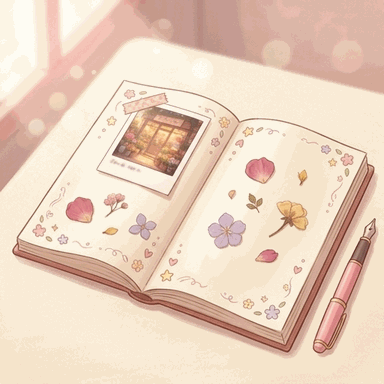
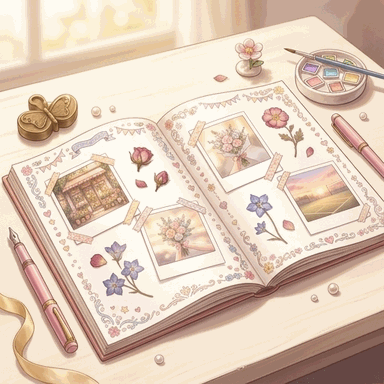
feat(affinity-cards): 加 6 级解锁门槛 + R/SR/SSR 美术分档拉开档次
【等级门槛】
- AffinityCardConfig.CARD_SYSTEM_UNLOCK_LEVEL = 6（新手前 5 级专注核心循环，
  避免开包动画拉跑注意力，同时让第一张 SSR 印象更有仪式感）
- AffinityManager.onCustomerDelivered 内部判等级：未达 6 级则继续走 +1/+2
  兼容路径，Bond 仍能正常推进，只是不掉卡 / 不积累友谊点
- AffinityManager.isCardSystemUnlocked() 给 UI 入口统一判定显隐
- TopBar「图鉴」按钮 6 级前 visible=false + eventMode=none，监听 level:up
  在解锁瞬间淡入显示
- CustomerProfilePanel 卡册行同样在解锁前折叠，面板高度回 380（不浪费空间）

【美术分档】重做 R(3)/SR(2)/SSR(1) 共 6 张 prompt 与生图，明显拉开档次：
- N 保持简洁日常小品（不动）
- R：丰富道具 + 多层背景细节 + 柔光氛围（可见明显高于 N）
- SR：戏剧 cinematic 光影 + 复杂层次背景 + 暖光晕 + 装饰繁复
- SSR：半 3D 体积感笔触 + 厚涂质感 + god-rays + 金色粒子 + 半透明 subsurface
  皮肤光感（明显高于 SR，作为 S1 hero key art）
- 12 张卡面统一 P 模式 256 色压缩到 384px，平均 70KB/张

Made-with: Cursor

diff --git a/src/managers/AffinityManager.ts b/src/managers/AffinityManager.ts
@@ -41,7 +41,9 @@ import {
   type BondLevel,
 } from '@/config/AffinityConfig';
 import { isAffinityCardSystemEnabled } from '@/config/AffinityFeatureFlags';
+import { CARD_SYSTEM_UNLOCK_LEVEL } from '@/config/AffinityCardConfig';
 import { AffinityCardManager } from './AffinityCardManager';
+import { LevelManager } from './LevelManager';
 
 const AFFINITY_STORAGE_KEY = 'huahua_affinity';
 
@@ -77,6 +79,16 @@ class AffinityManagerClass {
     this._loadState();
     this._ensureEntriesForCurrentLevel();
     this._bindEvents();
+  }
+
+  /**
+   * 友谊卡 + 图鉴系统对当前玩家是否「真正可用」。
+   * - flag 必须开启
+   * - 玩家等级达到 CARD_SYSTEM_UNLOCK_LEVEL（默认 6）
+   * UI 入口（TopBar 图鉴按钮、CustomerProfilePanel 卡册行）用本方法判定显隐。
+   */
+  isCardSystemUnlocked(): boolean {
+    return isAffinityCardSystemEnabled() && LevelManager.level >= CARD_SYSTEM_UNLOCK_LEVEL;
   }
 
   /** 当前累计点 → 落在哪个 bond 等级（按 BOND_THRESHOLDS） */
@@ -172,9 +184,13 @@ class AffinityManagerClass {
     //   - 正常订单：base 35% 概率掉一张卡 → 该卡稀有度对应 1/3/8/25 点
     //   - 专属订单：85% 必出，且稀有度 +1 档；30% 概率第二张
     //   - 重复卡 → 友谊点（碎片），不直接给 Bond
-    // 卡片系统未启用：沿用 +1/+2 兼容路径
+    // 卡片系统未启用 / 玩家等级未达 CARD_SYSTEM_UNLOCK_LEVEL：沿用 +1/+2 兼容路径
+    //  - 等级门槛见 AffinityCardConfig.CARD_SYSTEM_UNLOCK_LEVEL（默认 6）
+    //  - 6 级前 Bond 仍能正常推进，只是不掉卡 / 不积累友谊点，避免新手期分心
     let gain: number;
-    if (isAffinityCardSystemEnabled()) {
+    const cardSystemActive =
+      isAffinityCardSystemEnabled() && LevelManager.level >= CARD_SYSTEM_UNLOCK_LEVEL;
+    if (cardSystemActive) {
       const drop = AffinityCardManager.rollCardDrop(typeId, opts.isExclusive);
       gain = drop.addedBondPoints;
     } else {

diff --git a/src/gameobjects/ui/TopBar.ts b/src/gameobjects/ui/TopBar.ts
@@ -13,6 +13,7 @@ import * as PIXI from 'pixi.js';
 import { EventBus } from '@/core/EventBus';
 import { CurrencyManager } from '@/managers/CurrencyManager';
 import { GMManager } from '@/managers/GMManager';
+import { AffinityManager } from '@/managers/AffinityManager';
 import { COLORS, DESIGN_WIDTH, FONT_FAMILY } from '@/config/Constants';
 import { TextureCache } from '@/utils/TextureCache';
 import { TweenManager, Ease } from '@/core/TweenManager';
@@ -322,6 +323,8 @@ export class TopBar extends PIXI.Container {
 
   /** 友谊图鉴入口：仅 affinity_codex_btn，无白底；与商店图标同样行为（独立 hit area）
    * - 当 hideShopPill = true（在花店内），仍显示，方便玩家随时翻图鉴
+   * - 6 级前（CARD_SYSTEM_UNLOCK_LEVEL）整个按钮 visible = false，
+   *   监听 level:up 在解锁瞬间淡入显示
    */
   private _buildCodexPill(): void {
     const root = new PIXI.Container();
@@ -360,11 +363,25 @@ export class TopBar extends PIXI.Container {
       EventBus.emit('affinityCodex:open');
     });
 
+    // 等级门槛：6 级前隐藏；监听 level:up 解锁瞬间显示
+    const unlocked = AffinityManager.isCardSystemUnlocked();
+    root.visible = unlocked;
+    root.eventMode = unlocked ? 'static' : 'none';
+    if (!unlocked) {
+      const onLevelUp = () => {
+        if (AffinityManager.isCardSystemUnlocked()) {
+          root.visible = true;
+          root.eventMode = 'static';
+          EventBus.off('level:up', onLevelUp);
+        }
+      };
+      EventBus.on('level:up', onLevelUp);
+    }
+
     this.addChild(root);
 
-    // 让 GM 槽起点向后挪
+    // 让 GM 槽起点向后挪（即便按钮当前不可见，hit area 仍预留位置避免抖动）
     this._gmSlotLeft = left + SHOP_HIT + 10;
-    this._gmSlotLeft = SHOP_PILL_LEFT + SHOP_HIT + 10;
   }
 
   /**

diff --git a/src/gameobjects/ui/CustomerProfilePanel.ts b/src/gameobjects/ui/CustomerProfilePanel.ts
@@ -13,7 +13,6 @@ import { TextureCache } from '@/utils/TextureCache';
 import { createFlowerEggModalFrame } from '@/gameobjects/ui/FlowerEggModalFrame';
 import { AffinityManager } from '@/managers/AffinityManager';
 import { AffinityCardManager } from '@/managers/AffinityCardManager';
-import { isAffinityCardSystemEnabled } from '@/config/AffinityFeatureFlags';
 import { hasCardsForOwner } from '@/config/AffinityCardConfig';
 import { DECO_MAP } from '@/config/DecorationConfig';
 import {
@@ -89,7 +88,9 @@ export class CustomerProfilePanel extends PIXI.Container {
     this.addChild(overlay);
 
     const contentW = Math.min(W - 80, 320);
-    const contentH = isAffinityCardSystemEnabled() && hasCardsForOwner(def.typeId) ? 432 : 380;
+    // 卡册行仅在「友谊卡系统已对玩家解锁（含 6 级门槛）」且当前客人有卡定义时占位
+    const cardRowVisible = AffinityManager.isCardSystemUnlocked() && hasCardsForOwner(def.typeId);
+    const contentH = cardRowVisible ? 432 : 380;
 
     const frame = createFlowerEggModalFrame({
       viewW: W,
@@ -201,8 +202,8 @@ export class CustomerProfilePanel extends PIXI.Container {
       y += 4;
     }
 
-    // 卡册进度行（仅 cardSystem 启用 + 有卡定义时显示）
-    if (isAffinityCardSystemEnabled() && hasCardsForOwner(def.typeId)) {
+    // 卡册进度行（仅 cardSystem 启用 + 玩家等级达 6 + 有卡定义时显示）
+    if (AffinityManager.isCardSystemUnlocked() && hasCardsForOwner(def.typeId)) {
       const cardRow = this._buildCardCodexRow(def.typeId, width);
       cardRow.position.set(0, y);
       mount.addChild(cardRow);

diff --git a/src/config/AffinityCardConfig.ts b/src/config/AffinityCardConfig.ts
@@ -67,6 +67,19 @@ export const CARD_RARITY_LABEL: Record<CardRarity, string> = {
 // 抽卡参数
 // ============================================================================
 
+/**
+ * 友谊卡系统玩家解锁等级（含）。
+ *
+ * 设计目的：
+ *  - 新手前 5 级要专注「合成 + 出花 + 卖花」的核心循环，过早引入"开包"
+ *    会让新手注意力被卡片动画拉跑，且第一张 SSR 印象太早出会失去仪式感；
+ *  - Lv6 通常对应「3-5 ~ 4-1」附近，玩家已经稳定有专属订单，掉卡反馈与
+ *    专属订单产出节奏更契合；
+ *  - 6 级前：仍走原 +1/+2 兼容路径（AffinityManager.onCustomerDelivered
+ *    内的 else 分支），Bond 等级仍可正常推进。
+ */
+export const CARD_SYSTEM_UNLOCK_LEVEL = 6;
+
 /** 一次「是否掉卡」的基础概率 */
 export const CARD_DROP_BASE_CHANCE = 0.35;
 /** 专属订单交付的掉卡概率（覆盖 base） */
